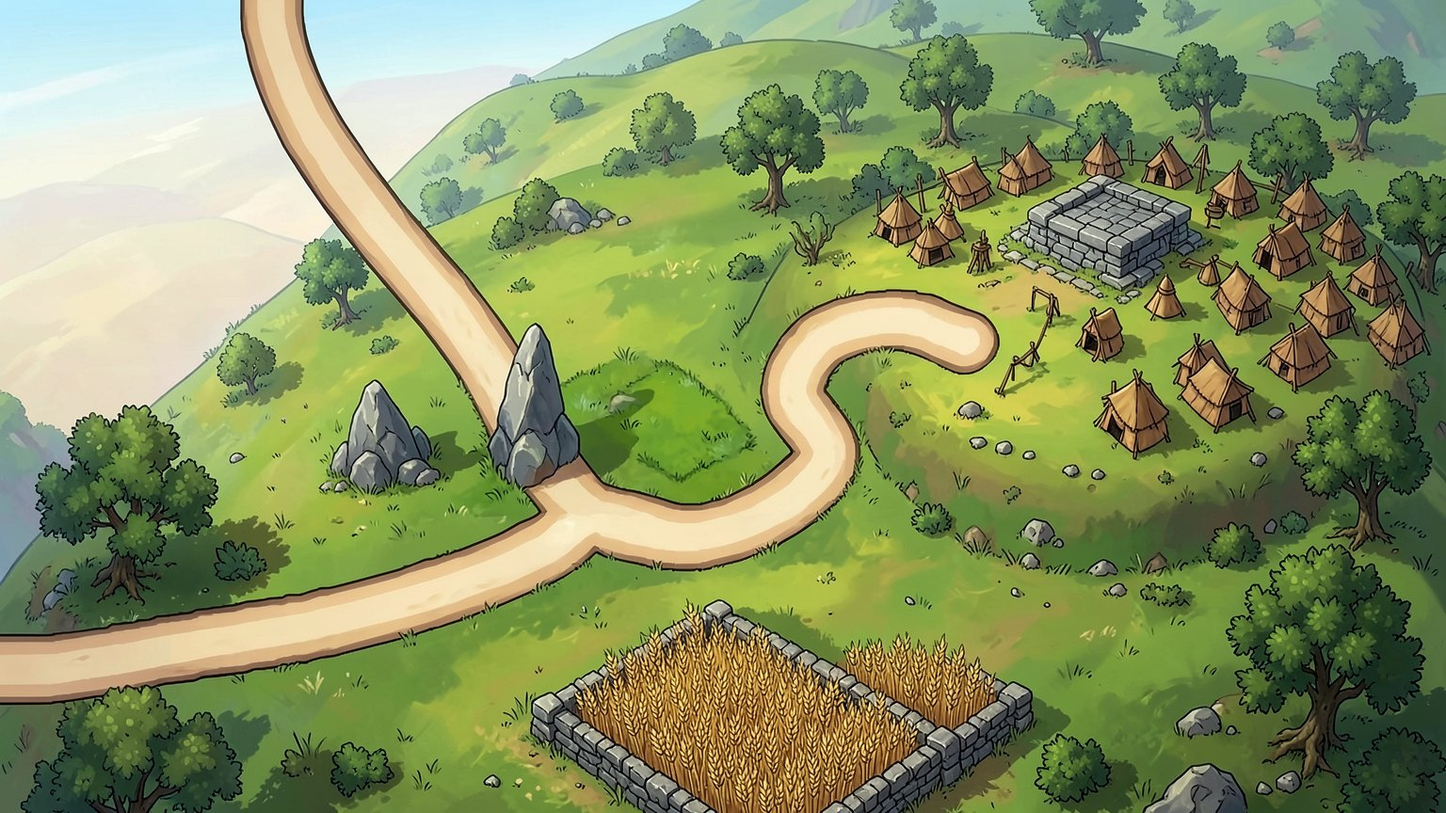
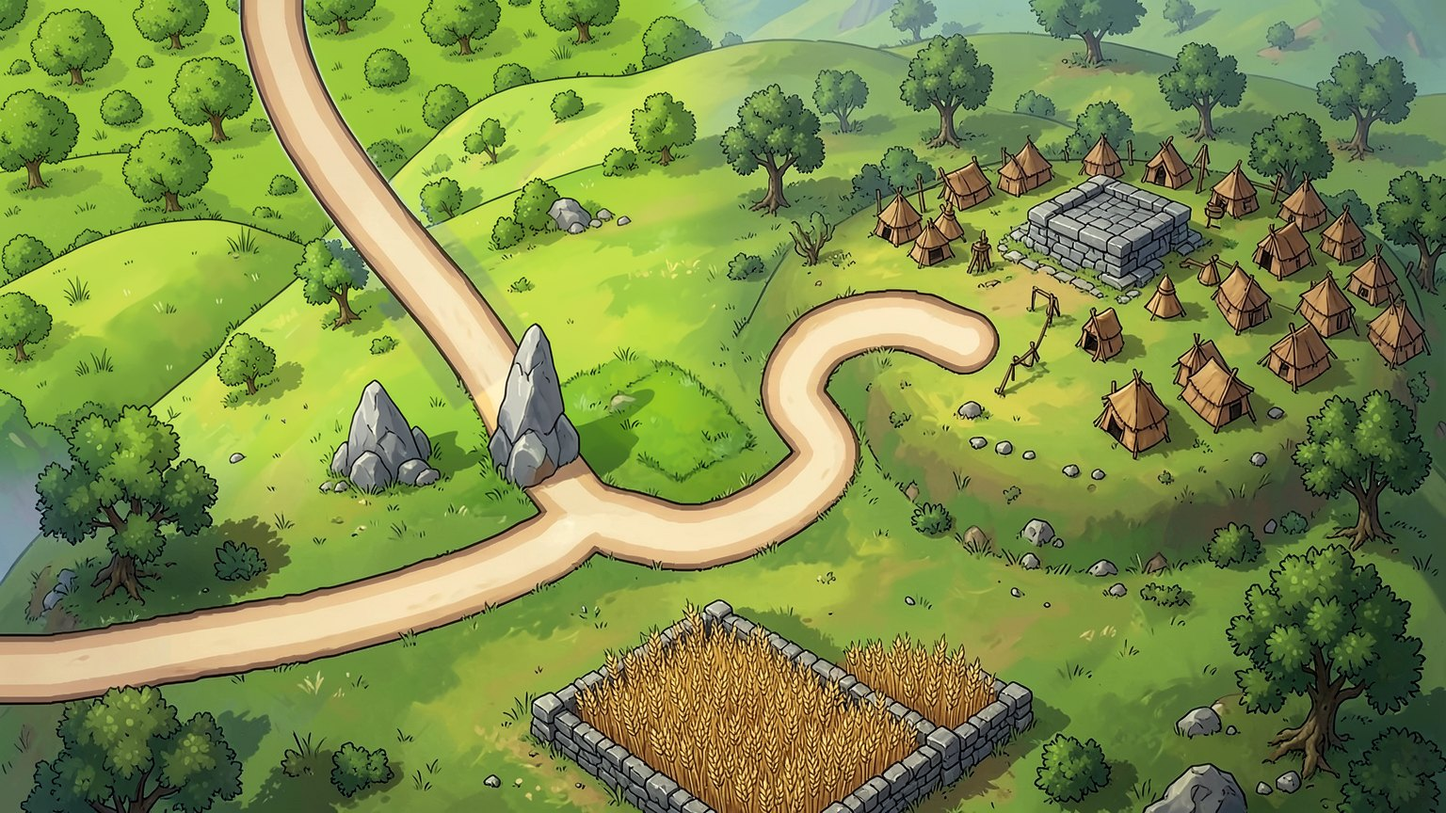
v1.25: 13 미스바 물 붓는 백성·이삭 줍는 룻을 그림으로, 왼쪽 위 길이 하늘에서 내려오지 않게 배경 고침

Changed region(s): [[0.0, 0.0, 0.5, 0.5938]]

diff --git a/index.html b/index.html
@@ -1287,7 +1287,7 @@ const STAGES={
   // 13 미스바(삼상 7, 기획서 '13 미스바 설계안'): 준비 시간에 물을 붓고(7:6) 먹구름이 걷혀 하늘의 적이 없다 → 11무리 번제(7:9), 부르짖음이 한 번 바로 찬다(7:8) → 14무리부터 큰 우레(7:10) → 다 지키면 에벤에셀(7:12)
   13:{id:13,name:'미스바',chap:'4장 · 사사들의 날',ref:'삼상 7',night:false,gold:1100,cap:4,heroes:['caleb','moses','noah'],hpMul:2.0,hpMulBy:{shield:.8},dmgMul:1.75,gapT:20,skin:'philistine',   // v1.10 균형: 짧은 길에 방패병이 많아 방패병만 0.8. 거인은 1.0(나실인이 있을 때와 없을 때가 크게 갈리게)
     mizpah:{burnWave:10,thunderWave:13,gap:6,warn:1,boltR:48,boltDmg:50,conf:2,confGiant:1,altar:[975,212],stone:[625,340],autoT:7.5,cloud:[118,150],   // 그림(bg13 시드 1)에 맞춤: 제단은 언덕 위 돌 단, 에벤에셀은 미스바와 센(뾰족 바위) 사이 풀밭
-      people:[[890,420],[925,428],[960,432],[995,430],[1030,424],[1062,414]]},   // 물을 붓는 백성(코드로 그림, 7:6)
+      people:[[890,420],[925,428],[960,432],[995,430],[1030,424],[1062,414]]},   // 물을 붓는 백성(7:6, p_jar·p_pour 그림)
     paths:[[[240,-50],[240,30],[270,110],[325,190],[390,265],[440,335],[475,400],[520,450],[598,468],[672,448],[722,402],[694,348],[720,298],[790,282],[850,300]],
            [[-50,575],[50,575],[150,560],[250,545],[340,525],[420,500],[478,475],[520,450],[598,468],[672,448],[722,402],[694,348],[720,298],[790,282],[850,300]]],
     flags:[[240,40],[40,575]],
@@ -2303,6 +2303,7 @@ function drawMizpahCloud(c){const M=G.miz;if(!M||M.cloud<=0)return;const [cx,cy]
   for(let i=0;i<4;i++){const a=G.t*.6+i*1.7;c.fillStyle=`rgba(46,30,66,${.4-i*.07})`;E(c,cx+dx+Math.cos(a)*14+(i-1.5)*34,cy+Math.sin(a)*6-i*4,62-i*8,30-i*4);c.fill();}
   c.restore();}
 function drawPourer(c,i){const m=G.S.mizpah,M=G.miz,[x,y]=m.people[i],k=M.pourT?clamp((M.pourT-i*.18)/2.4,0,1):0,pour=k>0&&k<1,t=G.t+i;
+  {const a=ART[(pour?'p_pour':'p_jar')+(i%2?'2':'')];if(a){sprite(c,a,x,y,{dir:-1,t,pose:'idle'});if(pour&&Math.random()<.3)part('spark',x-20,y-2,rand(-14,14),rand(-20,-6),.3,'#cfe9f8',1.6);return;}}   // 그림(10-18 사용자: 그림체에 맞게): 물동이를 든 남자·여자가 번갈아, 부을 때는 붓는 그림
   chibi(c,x,y,{s:.9,dir:-1,t,pose:'idle',skin:SK[i%5],cloth:['#9b6b3c','#7d8b4a','#a8743e','#8a5a6a','#5d6f8a','#b08a5a'][i%6],head:'cloth',hc:'#efe3c4',item:null});
   c.save();c.translate(x-12,y-18);c.rotate(pour?-1.1:-.2);E(c,0,0,5,6.5);FS(c,'#b8703e',1.4);c.restore();   // 물동이
   if(pour){c.strokeStyle='rgba(150,205,240,.85)';c.lineWidth=2;const ox=x-18,oy=y-14;L(c,ox,oy,ox-2,y-1);if(Math.random()<.3)part('spark',ox-2,y-2,rand(-14,14),rand(-20,-6),.3,'#cfe9f8',1.6);}}
@@ -3381,9 +3382,10 @@ function findEgg(k){const e=EGGS[k],card=CODEX.find(c=>c.egg===k);closeMenu();
 function drawEgg(c,k){if(k==='loaf'){drawLoaf(c);return;}if(k==='stones'){drawStones(c);return;}if(k==='net'){drawNet(c);return;}if(k==='abigail'){drawAbigail(c);return;}if(k==='naaman'){drawNaaman(c);return;}if(k==='spring'){drawSpringEgg(c);return;}if(k==='fox'){drawFox(c);return;}const e=EGGS[k],a=ART[e.art];if(a)sprite(c,a,e.x,e.y,{dir:1,t:0,pose:'idle'});
   if(!EGG_GOT[k]){const ph=(G.t*.6+e.x*.01)%4;if(ph<.6){c.save();c.globalCompositeOperation='lighter';glow(c,e.x+8,e.y-(a?a.hgt*.6:10),14,'255,236,170',.5*Math.sin(ph/.6*Math.PI));c.restore();}}}   // 가끔 반짝여 눈치채게
 
-// 이삭 줍는 여인(코드 그림): 곡식 다발을 누르면 이삭이 떨어지고, 오른쪽에서 다가와 줍고 돌아간다(룻 2:16)
+// 이삭 줍는 여인(룻 그림 ruth·ruth_glean, 없으면 코드 그림): 곡식 다발을 누르면 이삭이 떨어지고, 오른쪽에서 다가와 줍고 돌아간다(룻 2:16)
 function drawGleaner(c){const L2=G.glean;if(!L2)return;const e=EGGS.sheaf,t=L2.t,k=t<1.6?t/1.6:t<4?1:Math.max(0,1-(t-4)/1.6),x=e.x+28+(1-k)*130,y=e.y+6,kneel=t>1.6&&t<4;
   if(t<1.2&&Math.random()<.3)part('leaf',e.x+rand(-10,10),e.y-20,rand(-20,20),rand(-30,-10),.8,'#e8c25a',2.2);
+  {const a=ART[kneel?'ruth_glean':'ruth'];if(a&&k>0){sprite(c,a,x,y,{dir:t>4?1:-1,t:G.t,pose:kneel?'idle':'walk',s:.92});return;}}   // 룻 그림(10-18 사용자: 그림체에 맞게)
   if(k>0)chibi(c,x,y,{s:.92,dir:t>4?1:-1,t:G.t,pose:kneel?'kneel':'walk',skin:'#c98a5a',cloth:'#3a5f9a',head:'cloth',hc:'#2f4f8a',item:null});}
 function drawStones(c){const e=EGGS.stones,n=EGG_GOT.stones?5:(G.stoneN||0),a=ART[e.art];if(a)sprite(c,a,e.x,e.y,{dir:1,t:0,pose:'idle',noShadow:true});else for(let i=0;i<5;i++){E(c,e.x-14+i*7,e.y-2+(i%2)*4,4,3);FS(c,'#d8d2c4',1);}
   for(let i=0;i<n;i++){c.save();c.globalCompositeOperation='lighter';glow(c,e.x-16+i*8,e.y-14-Math.sin(G.t*3+i)*2,8,'230,245,255',.55);c.restore();}
@@ -3896,7 +3898,7 @@ function drawDrag(c){const d=drag;if(!d||!d.moved||!G)return;if(d.k==='hero'&&!(
   c.save();c.strokeStyle=q.ok?'rgba(255,240,170,.9)':'rgba(255,120,100,.8)';c.lineWidth=3;c.setLineDash([9,7]);c.lineDashOffset=-animT*30;L(c,q.fx,q.fy-6,q.x,q.y-6);c.setLineDash([]);c.lineWidth=2.6;E(c,q.x,q.y,20,9);c.stroke();c.restore();}
 function moveHero(x,y){const h=G.hero;if(!h||h.state!=='ok')return;h.tx=clamp(x,24,W-24);h.ty=clamp(y,70,H-24);h.px=h.tx;h.py=h.ty;h.going=false;h.moving=true;h.far=h.kind==='caleb'&&d2(h.x,h.y,h.tx,h.ty)>180*180;dropTarget(h);if(G.coach)G.coach.f.hero=1;G.fx.push({k:'mark',x:h.tx,y:h.ty,t:0,life:.6});Snd.play('click');}
 function updHero(dt){
-  const h=G.hero;if(!h||h.state==='away')return;   // 말씀이 희귀한 때: 하나님의 사람이 없다h.t+=dt;if(h.hitT>0)h.hitT-=dt;if(h.cast>0)h.cast-=dt;
+  const h=G.hero;if(!h||h.state==='away')return;h.t+=dt;if(h.hitT>0)h.hitT-=dt;if(h.cast>0)h.cast-=dt;   // away: 말씀이 희귀한 때, 하나님의 사람이 없다
   h.ult=Math.max(0,h.ult-dt);h.s1=Math.max(0,h.s1-dt);h.s2=Math.max(0,h.s2-dt);h.barCd=Math.max(0,h.barCd-dt);
   if(h.state==='dead'){h.respawn-=dt;if(h.respawn<=0){h.state='ok';h.hp=h.max;h.moving=false;h.calm=0;   // 쓰러진 자리에서 다시 일어난다
    for(let i=0;i<14;i++)part('spark',h.x+rand(-14,14),h.y-rand(0,40),rand(-30,30),rand(-90,-30),.9,'#ffe9a8',2.5);}return;}
@@ -4410,6 +4412,7 @@ const ART_DEF={
   k_camel:{h:66},k_archer:{h:48},k_centurion:{h:54},watch_benjamin:{h:128,top:.86},boy_sick:{h:30},boy_up:{h:58},a_ox:{h:40},p_family:{h:52},e_abigail:{h:46},j_soldier:{h:48},j_shield:{h:52},j_centurion:{h:54},j_archer:{h:48},j_drummer:{h:50},d_soldier:{h:48},d_shield:{h:52},d_archer:{h:48},deceiver:{h:96},jehoshaphat:{h:64},p_singer:{h:50},e_oil:{h:30},
   r_soldier:{h:48},r_raider:{h:46},r_shield:{h:52},r_centurion:{h:54},r_archer:{h:48},r_drummer:{h:50},r_chariot:{h:64},r_sit:{h:32},r_sit2:{h:32},r_walk:{h:46},ram:{h:58},ram_swing:{h:58},elisha:{h:64},elisha_pray:{h:68},elisha_lead:{h:64},servant:{h:52},servant_see:{h:54},king_israel:{h:62},p_server:{h:52},p_server2:{h:54},firehorse:{h:44},firechariot:{h:56},e_naaman:{h:52},e_naaman_clean:{h:56},
   s_soldier:{h:48},s_shield:{h:54},s_archer:{h:48},s_centurion:{h:54},s_drummer:{h:50},s_chariot:{h:66},siegetower:{h:170},siegetower_bare:{h:170},rabshakeh:{h:64},hezekiah:{h:64},hezekiah_pray:{h:50},isaiah:{h:62},p_guest:{h:52},p_guest2:{h:52},p_guest3:{h:52},e_spring:{h:30},art_uzziah:{h:112,top:.8},
+  p_jar:{h:50},p_jar2:{h:48},p_pour:{h:48},p_pour2:{h:46},ruth:{h:52},ruth_glean:{h:40},
   nehemiah:{h:64},h_soldier:{h:48},h_shield:{h:52},h_centurion:{h:54},h_archer:{h:48},h_chariot:{h:64},p_messenger:{h:52},e_fox:{h:30},
   dan_lion:{h:96},dan_bear:{h:104},dan_leopard:{h:84},dan_fourth:{h:118},
   kite:{h:40},abram:{h:58},moses_young:{h:56},ark3:{h:150},levi_priest:{h:98,top:.55},chariot:{h:64},pharaoh:{h:66},
@@ -4417,7 +4420,7 @@ const ART_DEF={
   shep1:{h:62,top:.5},shep2:{h:68,top:.5},shep3:{h:74,top:.5},art1:{h:76,top:.7},art2:{h:82,top:.72},art3:{h:88,top:.74},
 };
 const ART={};
-const AV='?v=31';   // 그림을 바꿀 때마다 올려서 예전 그림이 캐시에서 나오지 않게
+const AV='?v=32';   // 그림을 바꿀 때마다 올려서 예전 그림이 캐시에서 나오지 않게
 const BG_IMG={},REAR_IMG={},FALL_IMG={},FULL_IMG={};   // FULL_IMG: 성벽을 다 지은 배경(bg20_full.jpg, 느 6:15)   // REAR_IMG: 처음엔 막혀 있는 뒷길을 덮는 그림(bgN_rear.png) · FALL_IMG: 성벽이 무너진 배경(bg9_fall.jpg, 수 6:20)
 function loadArt(){for(const k of Object.keys(STAGES).map(Number)){const im=new Image();im.onload=()=>{BG_IMG[k]=im;if(G&&G.sid===k)buildBg();};im.src='art/bg'+k+'.jpg'+AV;if(STAGES[k].rear!=null){const r=new Image();r.onload=()=>{REAR_IMG[k]=r;if(G&&G.sid===k)buildBg();};r.src='art/bg'+k+'_rear.png'+AV;}
     if(STAGES[k].jericho){const f=new Image();f.onload=()=>{FALL_IMG[k]=f;};f.src='art/bg'+k+'_fall.jpg'+AV;}

diff --git a/_art/배경고침13.py b/_art/배경고침13.py
@@ -1,0 +1,57 @@
+# 13 미스바 배경(bg13) 왼쪽 위 고치기 v0.2 (2026-10-18)
+# v0.2: 길 가림을 색으로(길의 황토색 바탕 + 짙은 테두리만) 잡아 길가에 남던 옛 안개 띠를 없애고, 상자 전체를 다시 그려 오른쪽·아래 끝만 부드럽게 이어 붙인다(v0.1은 언덕 가운데 이음매가 보였다)
+# 10-18 사용자: "좌상단 길 때문에 적들이 하늘에서 내려오는 것 같은 인상을 줘." 그림에서 왼쪽 위 길이 파란 하늘과 먼 안개 골짜기 위로 그려져 있었다.
+# 길 둘레의 하늘·안개 자리만 FLUX.2 klein 참조 편집으로 초록 언덕으로 다시 그리고, 길(게임 길 0의 선을 두껍게 그린 가림)은 원본 그대로 둔다.
+# 사용(생성 venv %LOCALAPPDATA%\buiknam_gen): python 배경고침13.py [시드 ...] → raw\bg13_fix_s<시드>.png(1536×864) + 고침\bg13_fix_s<시드>_보기.jpg
+import sys, os, json, time
+os.environ.setdefault('HF_HOME', os.path.join(os.path.expanduser('~'), '.cache', 'huggingface'))
+import torch
+from PIL import Image, ImageDraw, ImageFilter
+
+HERE = os.path.dirname(os.path.abspath(__file__))
+MODEL = 'black-forest-labs/FLUX.2-klein-4B'
+G2B = 1536 / 1280   # 게임 좌표 → 배경 그림 좌표
+ROAD = [(240, -60), (240, 30), (270, 110), (325, 190), (390, 265), (440, 335)]   # index.html STAGES[13].paths[0] 앞부분
+BOX = (0, 0, 800, 560)   # 고칠 상자(배경 그림 좌표). 왼쪽 아래 안개 골짜기 끝(y 450쯤)보다 넉넉히 아래까지
+SKY = [(0, 0), (768, 0), (768, 12), (560, 80), (420, 190), (330, 270), (230, 370), (170, 448), (0, 448)]   # 언덕 가장자리 위·왼쪽(하늘과 안개 골짜기)
+PROMPT = ("Edit the picture. Replace the pale blue sky and the hazy distant valley with a continuation of the sunny green grassy hillside: "
+          "rolling green grassy hills with many round leafy trees, small bushes and grass tufts fill the whole picture up to the top edge, and the green slope continues beyond the top edge, "
+          "so the sandy road runs over green grass all the way out of the top of the picture. No sky anywhere, no clouds, no distant haze. "
+          "Keep the sandy road exactly the same shape, width and color. Keep everything else exactly the same: the same hand-drawn cartoon "
+          "picture-book style, colors, lighting and outlines. No people, no animals, no text.")
+
+def main():
+    sys.stdout.reconfigure(encoding='utf-8')
+    seeds = [int(a) for a in sys.argv[1:]] or [1, 2, 3, 4]
+    pick = json.load(open(os.path.join(HERE, '고르기_13.json'), encoding='utf-8'))['bg13']
+    src = Image.open(os.path.join(HERE, 'raw', pick)).convert('RGB').resize((1536, 864), Image.LANCZOS)
+    crop = src.crop(BOX); cw, ch = crop.size
+    region = Image.new('L', (cw, ch), 0); ImageDraw.Draw(region).polygon(SKY, fill=255)
+    band = Image.new('L', (cw, ch), 0); ImageDraw.Draw(band).line([(x * G2B, y * G2B) for x, y in ROAD], fill=255, width=110, joint='curve')
+    road = Image.new('L', (cw, ch), 0); px = crop.load(); bp = band.load(); rp = road.load()
+    for yy in range(ch):
+        for xx in range(cw):
+            if not bp[xx, yy]: continue
+            r, g, b = px[xx, yy]
+            if (g - b > 30 and r > 200) or (r - b > 45 and r < 200) or r + g + b < 330: rp[xx, yy] = 255   # 길 바탕(황토) · 테두리(밤색·짙은 색)
+    road = road.filter(ImageFilter.MaxFilter(5)).filter(ImageFilter.MinFilter(5)).filter(ImageFilter.MaxFilter(3)).filter(ImageFilter.GaussianBlur(1.2))
+    edge = Image.new('L', (cw, ch), 255); ImageDraw.Draw(edge).rectangle((cw - 60, 0, cw, ch), fill=0); ImageDraw.Draw(edge).rectangle((0, ch - 60, cw, ch), fill=0)
+    region = edge.filter(ImageFilter.GaussianBlur(22))   # 상자 전체, 오른쪽·아래 끝만 부드럽게
+    mask = Image.composite(Image.new('L', (cw, ch), 0), region, road)   # 다시 그린 자리 − 길
+    from diffusers import Flux2KleinPipeline
+    t0 = time.time(); pipe = Flux2KleinPipeline.from_pretrained(MODEL, torch_dtype=torch.bfloat16)
+    pipe.enable_model_cpu_offload(); pipe.set_progress_bar_config(disable=True); print(f'모델 적재 {time.time()-t0:.0f}초', flush=True)
+    od = os.path.join(HERE, '고침'); os.makedirs(od, exist_ok=True)
+    w, h = 1024, round(1024 * ch / cw / 16) * 16
+    for sd in seeds:
+        t = time.time()
+        out = pipe(prompt=PROMPT, image=crop.resize((w, h), Image.LANCZOS), height=h, width=w, guidance_scale=1.0, num_inference_steps=4,
+                   generator=torch.Generator('cpu').manual_seed(sd)).images[0].resize((cw, ch), Image.LANCZOS)
+        fixed = src.copy(); fixed.paste(Image.composite(out, crop, mask), BOX[:2])
+        fixed.save(os.path.join(HERE, 'raw', f'bg13_fix_s{sd}.png'))
+        pv = Image.new('RGB', (cw * 2 + 8, ch), (40, 30, 20)); pv.paste(crop, (0, 0)); pv.paste(fixed.crop(BOX), (cw + 8, 0))
+        pv.save(os.path.join(od, f'bg13_fix_s{sd}_보기.jpg'), quality=88)
+        print(f'bg13_fix_s{sd}', f'{time.time()-t:.1f}초', flush=True)
+
+if __name__ == '__main__':
+    main()

diff --git a/_art/새그림13g작성.py b/_art/새그림13g작성.py
@@ -1,0 +1,24 @@
+# 13 미스바 그림 더하기 v0.1 (2026-10-18) → 새그림13g.json
+# 10-18 사용자: "병사들과 룻의 디자인이 초기 상태대로야. 그림체에 맞게 바꿔줘." 코드로 그리던 물을 붓는 백성(삼상 7:6)과 이삭 줍는 룻(룻 2:16, 숨은 이야기)을 그림으로.
+# 물 붓는 백성은 물동이를 든 모습(기다릴 때)과 붓는 모습 둘씩(남자·여자). 룻은 걷는 모습과 이삭을 줍는 모습.
+# 고르는 기준(10-16 사용자): 이목구비가 뚜렷하고 팔·손이 정상인가.
+import json
+HANDS = " Exactly two arms and exactly two hands, each hand with four fingers and a thumb."
+MAN = "An Israelite villager man of about thirty with a short brown beard, a cream headcloth and a plain brown wool tunic with a rope belt and leather sandals"
+WOMAN = "An Israelite village woman of about thirty in a long olive-green dress, a cream headscarf and leather sandals"
+RUTH = ("Ruth, a young Moabite woman of about twenty-five with long dark hair under a simple light-brown headscarf, "
+        "wearing a plain long blue dress with a cream sash and leather sandals, gentle hopeful face")
+
+def man(i, pr, seeds=(1, 2, 3)):
+    return {"id": i, "종류": "인물", "시드": list(seeds), "프롬프트": pr + HANDS}
+
+items = [
+    man("p_jar", MAN + ", standing and holding a round brown clay water jar with both hands in front of his chest, calm earnest face, three-quarter view facing right, whole body visible."),
+    man("p_jar2", WOMAN + ", standing and holding a round brown clay water jar with both hands in front of her waist, gentle face, three-quarter view facing right, whole body visible."),
+    man("p_pour", MAN + ", leaning slightly forward and tipping a round brown clay water jar with both hands so a stream of clear water pours out onto the ground in front of him, humble prayerful face, three-quarter view facing right, whole body visible."),
+    man("p_pour2", WOMAN + ", leaning slightly forward and tipping a round brown clay water jar with both hands so a stream of clear water pours out onto the ground in front of her, humble prayerful face, three-quarter view facing right, whole body visible."),
+    man("ruth", RUTH + ", walking and carrying a small bundle of golden barley stalks in her arms against her chest, three-quarter view facing right, whole body visible."),
+    man("ruth_glean", RUTH + ", kneeling on one knee on the ground and picking up a fallen golden barley stalk with her right hand while holding a small bundle of barley in her left arm, three-quarter view facing right, whole body visible."),
+]
+json.dump({"출력": "raw", "크기": [1024, 1024], "단계": 4, "항목": items}, open('새그림13g.json', 'w', encoding='utf-8'), ensure_ascii=False, indent=1)
+print(len(items), 'items')

diff --git a/기획서.md b/기획서.md
@@ -1311,6 +1311,7 @@
 - [x] v1.23 도전과 영웅 해금(10-18 사용자: "마지막 20스테이지 끝나고 … 모든 영웅을 모든 스테이지에서 쓸수있도록", "Heroic Stage: 사사 컨셉(좀더 어려운 난이도 강하고 많은 적들), Iron Stage: 침묵기 컨셉(하나님의 사람이 없음)", 이름은 추천 중 '큰 용사여'와 '말씀이 희귀한 때'를 고름): 예전 설계의 삼백 용사·온전한 길 도전을 이 둘로 바꿈. 지켜 낸 판을 지도에서 누르면 본편 이야기·큰 용사여·말씀이 희귀한 때를 고르는 창(별과 도전 기록, 규칙, 말씀). 도전은 이야기와 승리 만화 없이 바로 싸우고, 지켜 내면 끝 화면에 도전 이름과 별 하나, 말씀과 짧은 풀이(기드온을 큰 용사라 부르심, 말씀이 희귀하던 밤에 사무엘을 부르심). 처음 하는 도전은 규칙 안내(도전마다 한 번). 지도 판 아래에 도전 둘의 표(용·말, 지켜 내면 금빛), 슬롯에 `kog.s<번호>.chal`. 별은 본편 60 + 도전 40 = 100개(별 강화 90개). 큰 용사여: 무리마다 같은 시간 안에 1.3배, 체력 1.2배(보스 1.1배), 여섯째마다 택한 사람(금빛 띠, 체력 1.5배). 말씀이 희귀한 때: 영웅을 '떠남'으로 두고(움직이지도 그리지도 않음, 경험치 없음) 영웅·궁극기 단추를 숨김. 봇(`_bot.js` autoPlan, 별 강화 1~3)으로 2·3·5·8·10에서 재어 처음 1.4·1.3배는 2·8·10에서 졌고, 지금 값으로 3·5·8·10은 큰 용사여 등불 5~15, 말씀이 희귀한 때 16~20(2는 사람 손 hands를 쓰면 이김, 큰 용사여 2는 아직 봇이 짐). 20을 지켜 내면 모든 하나님의 사람(노아·모세·여호수아·갈렙·다윗)을 모든 판에서 고름(그 판의 영웅이 먼저). 7·14처럼 영웅이 하나뿐이던 판에도 고르는 화면이 나옴. 앱 1.23(32)
 - [x] v1.24 21 다니엘의 환상(10-18 사용자: "마지막 endless stage, 다니엘의 묵시 … 유저가 반드시 패배하게 되어 있지만 동시에 예수님에 대한 소망을 갖게 되는 서사면 좋겠음", 이름은 '다니엘의 환상', 싸움터는 새 바닷가. 지도 자리는 처음에 베들레헴의 별 곁에 두었다가 사용자 말("우상단은 지금도 너무 좁고, 거기에 갑자기 새로운 해결되지 않는 위협이 등장하는 건 취지와 맞지 않아")대로 오른쪽 아래 빈자리 `DAN_NODE`로 옮김): 20을 지켜 내면 열리는 특별 판(보라 단추, 별 없음, '최고 ○무리' 기록만 `kog.s<번호>.dan`). 한 번 본 뒤에는 이야기를 건너뛰고 영웅 고르기로. 영웅 다섯 모두, 처음 세겔 1600, 탑 4단계까지, 피해 배율 2.0, 밤. 싸움터 bg21(`ref2/ref21.png` 시안으로 그림, 시드 4): 위는 네 바람이 휘젓는 밤바다(코드로 소용돌이 넷을 더 그림, 7:2), 바다에서 올라오는 길 셋이 아래 가운데 언덕의 진과 등불로, 하늘길 하나(길 번호 3), 탑 자리 18(`_art/탑자리21.py`). 무리(`danWaves`, 40무리를 늘 같은 순서로 미리 만듦): 모든 나라 겉모습을 섞은 땅의 적이 처음 둘에서 넷 갈래로, 수는 무리마다 9%(스무째부터 14%), 체력은 무리마다 4.5%(스무째부터 15%, `danK`), 하늘의 적(속삭임 떼·솔개·밤의 공포·미혹하는 영)이 차례로 섞임, 현상금도 무리마다 3%씩. 다섯째 무리마다 짐승(7:3–7, 풀면 사람처럼 풀려나지 않고 권세를 빼앗겨 흩어지며 처음에 7:12 "정한 시기가 이르기를 기다리게" 알림, 그래서 다시 올라온다): 첫째 사자(하늘길, 체력이 절반 아래면 날개가 뽑혀 가장 가까운 땅의 길에 내려 느리고 약해지고 양치기가 막음, 7:4), 둘째 곰(6초마다 막아선 이를 크게 치고 체력 5%를 되찾음 "일어나서 많은 고기를 먹으라", 7:5), 셋째 표범(빠른 하늘길, 체력 75·50·25%에서 속삭임 떼 넷, 곁의 적을 빠르게, 7:6), 넷째 짐승(갑옷·완악함 모두 두꺼움, 7초마다 발구름으로 양치기 기절, 10초마다 가장 가까운 탑을 부숴 멈춤, 등불 12, 7:7). 짐승 곡 boss7, 줄로 조종하는 어둠은 짐승 위에 그리지 않음. 스무째 무리에 작은 뿔(7:8): 왼쪽 바다 위 어둠의 구름 속 사람의 눈과 입이 있는 뿔(코드로 그림), 쓰러뜨릴 수 없고 12초마다 "큰 말을 하는 입"으로 가장 값진 탑 둘을 멈춤(네 번 눌러 깨움). 그때부터 왼쪽 아래에 '한 때와 두 때와 반 때'(7:25) 막대(4·8·2무리)가 차고, 다 차면(서른넷째 무리) 등불이 저절로 꺼짐: 아무리 잘해도 반드시 진다. 지는 순간(`danFall`): 어두워지며 7:21 → 4.4초 뒤 위에서 빛이 내려와 모든 탑이 풀리고 판의 모든 적이 풀려나며(사람은 풀려난 사람으로 셈) 7:22 → 만화: 글 장 "등불이 다 꺼졌어요. 그때 다니엘이 말해요. '내가 보니'(7:9)", v21a 불꽃 보좌(사람 모습 없이, 엔딩 곡 시작), v21b 하늘 구름을 타고 오는 빛(7:13), 글 장 7:27, v21c 새벽에 기뻐 우는 성도들(7:22), Kingdom of God → 끝 화면: "그의 나라는 멸망하지 아니할 것이니라"(7:14), 견딘 무리·최고 기록·풀려난 사람, "이 판은 반드시 져요. 성경에서도 그 뿔이 성도들을 이겼어요. 그러나 그때 옛적부터 항상 계신 이가 오셨어요(단 7:21–22)", 예수님 찾기(막 14:62, 단 7:27, 눅 12:32), 더 깊이 보기 다섯. 소망의 알림(9·13·17·27무리: 7:15–16, 7:18, 7:12, 7:25). 영웅 경험치는 견딘 무리만큼. 새로 생긴 것 안내, 짐승 넷의 적 카드(특징·약점·어느 시대에나), 두루마리 '네 짐승과 작은 뿔'. 음악(곡.json, 후보 넷씩 점수.py): s21 '끝없는 밤' 1등 시드 2(+0.29, 쌓였다 터지는 폭 18dB, 첫 박은 31초로 늦음), 짐승 보스곡 boss7 1등 시드 4(+0.78, 박이 가장 또렷하고 곧바로 시작). 들어 보고 고르지는 못했다(Claude는 소리를 듣지 못함). 구원 이야기 그림은 한 번 지고 나면 열림. 그림(새그림21.json v0.2, `고르기_21.json`): bg21 4, 짐승 사자 2·곰 1·표범 1·넷째 4(처음 셋은 뿔이 둘~넷이라 열 뿔이 한 줄로 서게 다시), s21a 1, s21b 1, s21c 6(처음 셋은 작은 뿔이 작은 짐승처럼 나와 '뿔에 눈과 입'으로 다시), s21d 2, v21a 1, v21b 7(처음 셋은 빛 속에 사람 꼴이 보여 다시), v21c 4(처음 셋은 얼굴이 슬퍼 보여 다시). 균형(`_bot.js`의 runS와 PLAN21, 별 강화와 4단계 갈래): 별 강화 5에서 다윗 27·모세 23·갈렙 23·여호수아 23무리, 별 강화 3 다윗 23, 별 강화 1 노아 12. 보통은 스무째의 넷째 짐승과 작은 뿔을 보고 스물셋 무렵 넷째 짐승에 무너짐. 앱 1.24(33)
 - [x] v1.25 기술 카드(10-18 사용자: "각 타워가 업그레이드돼서 기술을 쓸 때, 그 기술을 쓰는 예시 스크린샷 화면과 함께 그거 익히면 어떻게 되는지도 알려주면 좋을듯해"): 4단계 탑 여덟 가지의 기술 스물넷마다 정보 칸(기술 단추에 마우스를 올리거나 처음 누를 때)을 카드로 바꿈. 왼쪽에 그 기술을 실제로 쓰는 게임 화면(`art/sk/<가지>_<기술>.jpg`, 480×270), 오른쪽에 이름·익힌 단계·'이럴 때 좋아요' 한 줄(`SKILL_WHY`), 아래에 1·2·3단계 효과(익힌 단계는 ✓, 다음에 익힐 단계는 금빛 띠), 말씀 자리와 다음 단계 값. 화면은 `_art/기술찍기.js`(`_art/스크린샷서버.py`, launch.json `kog-shot` 8770)로 4 갈대 상자에 그 탑 하나를 세우고 그 기술만 3단계로 익혀, 기술이 눈에 보이는 순간(글자·빛·투사체)을 기다려 세 장씩 찍고 하나를 고름(`_art/고르기_기술.json`). 세겔 숫자는 빼고 찍고, 눈에 잘 안 보이는 효과는 금빛 점선 고리와 글(빨리!, 앞을 비추라, 앞장선 용사, 성 모퉁이 망대, 서로 쳐요, 곧바로 다음 화살, 한 번에 둘, 큰 돌)과 화살표(세 용사)로 덧그림. 휴대폰 가로(812×375)에서도 카드가 화면 안에 들어감. 앱 1.25(34)
+- [x] v1.25 13 미스바 손질(10-18 사용자: "병사들과 룻의 디자인이 초기 상태대로야. 그림체에 맞게 바꿔줘", "좌상단 길 때문에 적들이 하늘에서 내려오는 것 같은 인상을 줘". 사용자는 12라고 했지만 둘 다 13 미스바에 있었다): 코드로 그리던 물을 붓는 백성 여섯(삼상 7:6)을 그림으로(물동이를 든 남자 p_jar·여자 p_jar2가 번갈아, 부을 때는 p_pour·p_pour2), 숨은 이야기에서 이삭 줍는 룻을 그림으로(걷는 ruth, 무릎 꿇고 줍는 ruth_glean). 배경 bg13 왼쪽 위에서 길이 파란 하늘과 먼 안개 골짜기 위로 그려져 있어서 `_art/배경고침13.py`(FLUX.2 klein 참조 편집)로 길 둘레를 초록 언덕과 나무로 다시 그리고 길은 색으로 잡은 가림으로 원본 그대로 둠: 처음 넷은 길가에 옛 안개 띠와 이음매가 남았고(v0.1), 다음 넷 가운데 둘은 밋밋한 초록이고 왼쪽 아래에 안개가 남아 상자를 넓혀 다시(v0.2), 시드 11. 그림 `새그림13g.json`·`고르기_13g.json`: p_jar 1, p_jar2 3, p_pour 3, p_pour2 3, ruth 2, ruth_glean 2. 그림이 없으면 예전 코드 그림으로.
 - [ ] 수치 균형: 세겔 수입, 탑과 적의 체력·피해, 대기 시간, 영웅 성장 곡선은 개발하면서 프로토타입에서 맞춘다
 - [x] 그림과 소리 방향: '그림과 소리'에 반영
 - [x] 목숨 이름과 패배 화면: 약속의 등불과 사 42:3. '핵심 게임 규칙'에 반영
